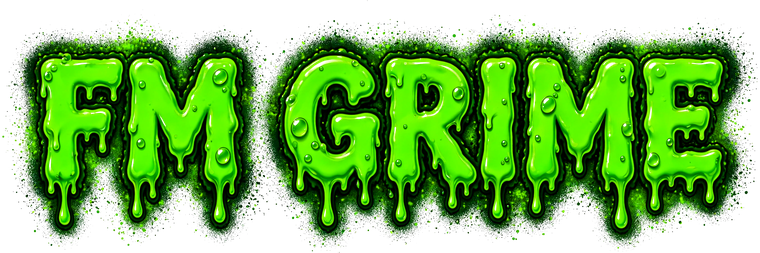
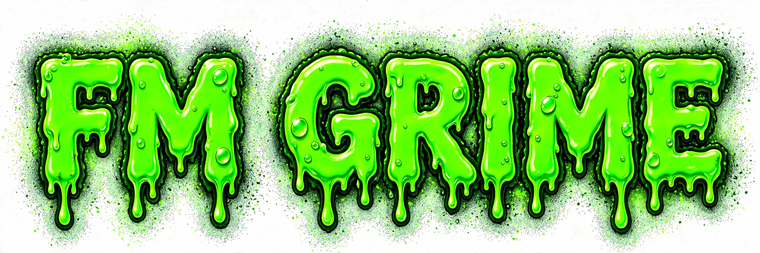
header image fix brighter

diff --git a/vst-plugin/src/PluginEditor.h b/vst-plugin/src/PluginEditor.h
@@ -14,7 +14,7 @@
 namespace GuiLab {
     // ---- window ----
     constexpr int WIN_W = 1020;
-    constexpr int WIN_H = 560;
+    constexpr int WIN_H = 600;
 
     // ---- colors ----
     inline const juce::Colour ACCENT  = juce::Colour(0xff39ff14); // neon green
@@ -27,14 +27,14 @@ namespace GuiLab {
     inline const juce::Colour BG_DIM  = juce::Colour(0x3c000000); // dim over bg image
 
     // ---- title banner (grime_title.png, white keyed out, centered) ----
-    constexpr int TITLE_W = 380;
-    constexpr int TITLE_H = 126;
+    constexpr int TITLE_W = 665;   // 1.75x
+    constexpr int TITLE_H = 221;
     constexpr int TITLE_X = (WIN_W - TITLE_W) / 2;  // centered; change to 16 for left
     constexpr int TITLE_Y = 10;
 
     // ---- layout ----
     constexpr int STRIP_X0    = 10;   // first strip left edge
-    constexpr int STRIP_Y     = 192;  // strip top edge
+    constexpr int STRIP_Y     = 232;  // strip top edge
     constexpr int STRIP_PITCH = 130;  // horizontal distance between strips
     constexpr int STRIP_W     = 124;  // strip width
     constexpr int STRIP_H     = 356;  // strip height
